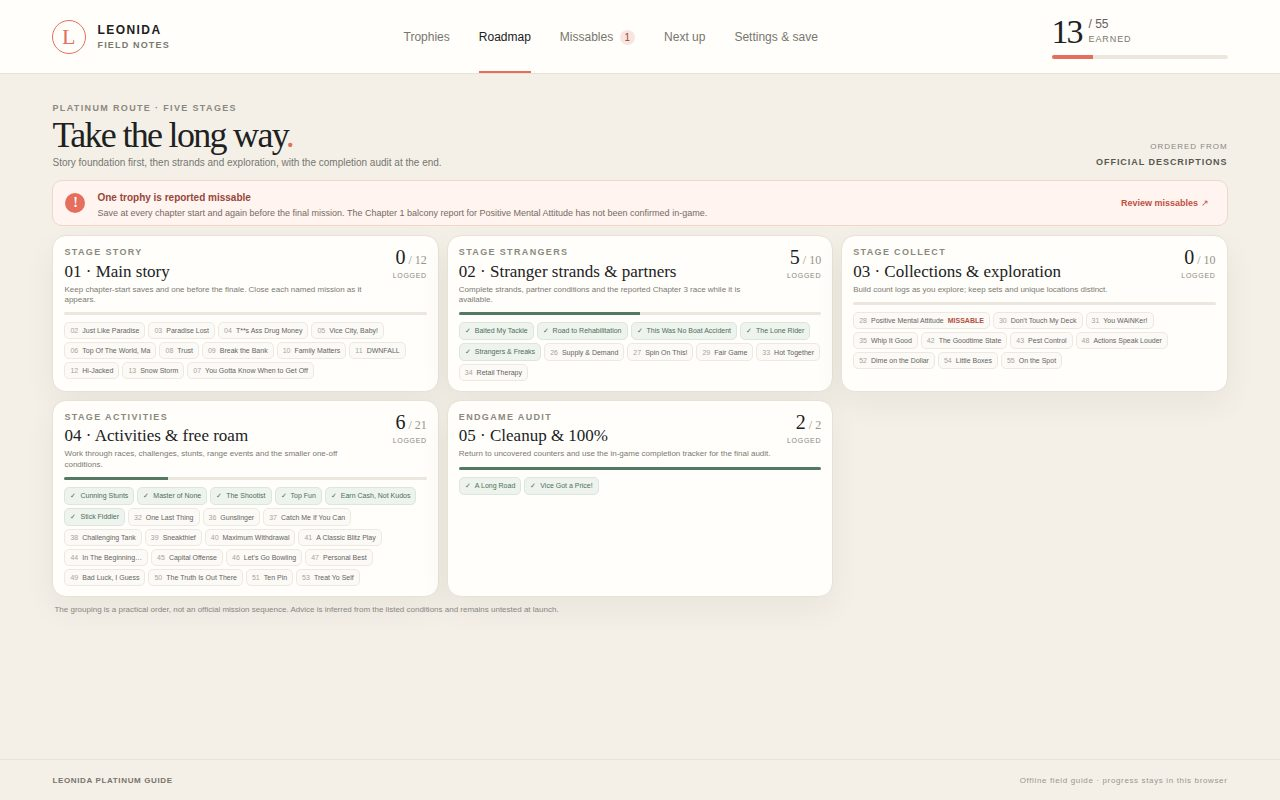
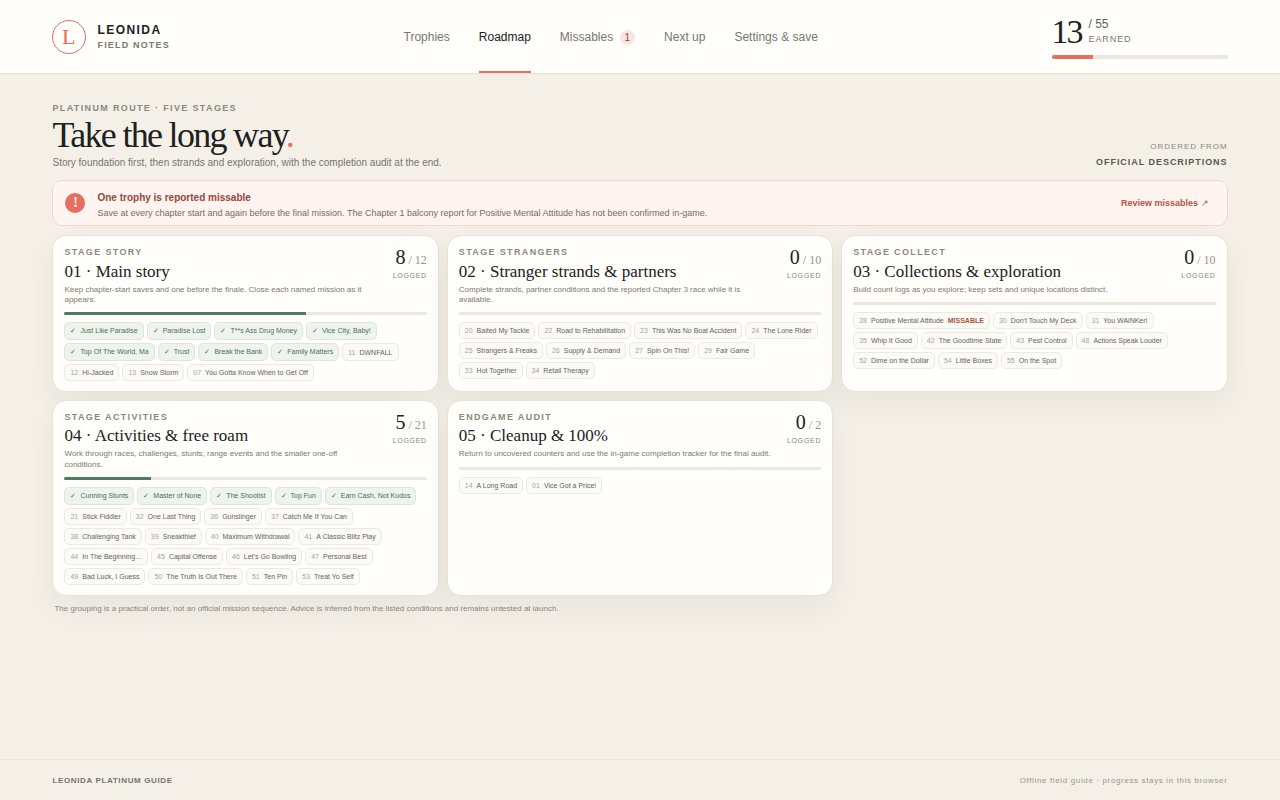
Revise Leonida Platinum Guide: fix spoiler search leak and polish

diff --git a/main.ts b/main.ts
@@ -6,16 +6,16 @@
 // screenshots, the first load's files and bytes, and your source), with the vendored make.fun library. Leave
 // vendor/makefun-frontend.ts as it is: the scorer requires dossier.json to be byte for byte what its own copy writes.
 //
-// Only the plumbing, not a winner: a plain checklist of the 55 trophies with a one-line hint each. Write a real guide
-// for every trophy in your own words, a roadmap to the platinum, filters and a spoiler setting in app/, put 3 or 4 PNG
-// or JPEG screenshots of it in screenshots/ (the first by name is the cover; shots.json says which views this
-// starter's were taken of), and run it.
+// The app includes 55 individually written guides, a five-stage roadmap, a missables report and a next-up planner.
+// Earned marks, notes and counters are stored locally and can be exported or imported. Spoiler cover masks unearned
+// story entries in the ledger, including search. Validate guide coverage before copying the entry. The first
+// screenshot by name is the cover; shots.json records the four reproducible preview scenes.
 //
 // Serve it locally with `node serve.ts`, then open http://localhost:8080.
 // Outside the grader's container, MAKEFUN_OUTPUT_DIR stands in for /output:
 //   mkdir -p out && MAKEFUN_OUTPUT_DIR=out node main.ts
 
-import { cpSync, existsSync, mkdirSync, readdirSync, writeFileSync } from 'node:fs';
+import { cpSync, existsSync, mkdirSync, readdirSync, readFileSync, writeFileSync } from 'node:fs';
 import { join } from 'node:path';
 import { fileURLToPath } from 'node:url';
 import { buildDossier } from './vendor/makefun-frontend.ts';
@@ -23,8 +23,14 @@ import { buildDossier } from './vendor/makefun-frontend.ts';
 const here = fileURLToPath(new URL('.', import.meta.url));
 const out = process.env.MAKEFUN_OUTPUT_DIR ?? '/output';
 if (!existsSync(join(here, 'app/index.html'))) throw new Error('Missing guide: app/index.html');
-const images = readdirSync(join(here, 'screenshots'), { withFileTypes: true }).filter(entry => entry.isFile() && /\.(png|jpe?g)$/i.test(entry.name));
+const { trophies } = JSON.parse(readFileSync(join(here, 'app/data/trophies.json'), 'utf8'));
+if (!Array.isArray(trophies) || trophies.length !== 55 || trophies.some(trophy => typeof trophy.guide !== 'string' || !trophy.guide.trim())) {
+  throw new Error('All 55 trophies must have a non-blank guide.');
+}
+const screenshotFiles = readdirSync(join(here, 'screenshots'), { withFileTypes: true }).filter(entry => entry.isFile());
+const images = screenshotFiles.filter(entry => /\.(png|jpe?g)$/i.test(entry.name));
 if (images.length < 3 || images.length > 4) throw new Error('The guide needs three or four screenshots.');
+if (images.length !== screenshotFiles.length) throw new Error('Screenshots must be PNG or JPEG images.');
 
 mkdirSync(out, { recursive: true });
 cpSync(join(here, 'app'), join(out, 'app'), { recursive: true });

diff --git a/app/main.js b/app/main.js
@@ -13,22 +13,23 @@ const filters={search:'',grade:'',kind:'',status:''};
 let trophies=[];
 let selectedId=1;
 let activePage='checklist';
+let showShotDrawer=true;
 const queryShot=new URLSearchParams(location.search).get('shot');
-const shotEarned=[1,14,15,16,17,18,19,20,21,22,23,24,25];
+const shotEarned=[2,3,4,5,6,8,9,10,15,16,17,18,19];
 
 function syncHeader(){
  const count=store.get().earned.length;
  root.querySelector('#earned-count').textContent=count;
  root.querySelector('#progress-fill').style.width=`${count/55*100}%`;
 }
-function choose(id){selectedId=id;paint();}
+function choose(id){if(activePage!=='checklist')Object.assign(filters,{search:'',grade:'',kind:'',status:''});selectedId=id;activePage='checklist';paint();}
 function render(){
  syncHeader();
  page.classList.toggle('roadmap-shot',queryShot==='2'&&activePage==='roadmap');
  root.querySelectorAll('[data-page]').forEach(button=>button.classList.toggle('active',button.dataset.page===activePage));
  if(activePage==='checklist'){
   renderChecklist(page,trophies,store.get(),selectedId,filters,choose,(id,value)=>store.earned(id,value),(next)=>{Object.assign(filters,next);render();},(key,value)=>store.setting(key,value));
-  if(queryShot==='4')renderShotDrawer();
+  if(queryShot==='4'&&showShotDrawer)renderShotDrawer();
  }
  else if(activePage==='roadmap')renderRoadmap(page,trophies,store.get(),choose);
  else if(activePage==='missables')renderMissables(page,trophies,store.get(),choose);
@@ -42,7 +43,7 @@ function renderShotDrawer(){
  page.append(drawer);
  drawer.querySelector('#shot-spoiler').addEventListener('change',event=>store.setting('spoiler',event.target.checked));
  drawer.querySelector('#shot-hidden').addEventListener('change',event=>store.setting('hideHidden',event.target.checked));
- drawer.querySelector('#drawer-done').addEventListener('click',()=>navigate('checklist'));
+ drawer.querySelector('#drawer-done').addEventListener('click',()=>{showShotDrawer=false;navigate('checklist');});
 }
 root.addEventListener('click',event=>{const button=event.target.closest('[data-page]');if(button)navigate(button.dataset.page);});
 window.addEventListener('guide-page',event=>navigate(event.detail));
@@ -62,7 +63,7 @@ try{
  trophies=await loadTrophies();
  if(queryShot){
   store.stageShot(shotEarned,queryShot==='4'?{spoiler:true}:{});
-  selectedId=queryShot==='4'?2:28;
+  selectedId=queryShot==='4'?11:28;
   if(queryShot==='2')activePage='roadmap';
   if(queryShot==='3'){activePage='missables';filters.kind='missable';}
   if(queryShot==='4')activePage='checklist';

diff --git a/app/views/checklist.js b/app/views/checklist.js
@@ -12,7 +12,7 @@ export function renderChecklist(page, trophies, state, selectedId, filters, onSe
   page.innerHTML = `<div class="page-heading"><div><span class="eyebrow">YOUR COLLECTION · PS5</span><h1>Trophy ledger<span class="period">.</span></h1><p>55 marks on the road to a Leonida platinum.</p></div><div class="heading-side"><span class="launch-tag">GUIDE STATUS <b>LAUNCH DAY · 19 NOV 2026</b></span><button class="text-button" data-goto="planner">Plan next →</button></div></div>
     <section class="tracker-grid">
       <div class="list-pane">
-        <div class="list-title"><div><b>THE TROPHY LIST</b><span>${visible.length} shown · ${state.earned.length} earned</span></div><label class="switch-label"><input id="spoiler-toggle" type="checkbox" ${state.spoiler?'checked':''}><span class="switch"></span>Spoilers</label></div>
+        <div class="list-title"><div><b>THE TROPHY LIST</b><span>${visible.length} shown · ${state.earned.length} earned</span></div><label class="switch-label"><input id="spoiler-toggle" type="checkbox" ${state.spoiler?'checked':''}><span class="switch"></span>Spoiler cover</label></div>
         <div class="filters">
           <label class="search-box"><span>⌕</span><input id="search" type="search" placeholder="Search the guide…" value="${escapeAttr(filters.search)}"><kbd>/</kbd></label>
           <select aria-label="Grade filter" id="grade-filter">${options(grades,filters.grade)}</select><select aria-label="Kind filter" id="kind-filter">${options(kinds,filters.kind)}</select><select aria-label="Earned filter" id="status-filter">${options([['','All status'],['open','Unearned'],['earned','Earned']],filters.status)}</select>

diff --git a/app/filters.js b/app/filters.js
@@ -10,7 +10,12 @@ export function filterTrophies(trophies, state, options) {
     if (options.grade && trophy.grade !== options.grade) return false;
     if (options.kind && trophy.kind !== options.kind) return false;
     if (options.status === 'earned' && !earned || options.status === 'open' && earned) return false;
-    if (query && !isMasked(trophy, state) && !`${trophy.name} ${trophy.description} ${trophy.guide}`.toLowerCase().includes(query)) return false;
+    if (query) {
+      const searchable = isMasked(trophy, state)
+        ? 'Hidden trophy — earn it to reveal Story spoiler · toggle spoilers to preview'
+        : `${trophy.name} ${trophy.description} ${trophy.guide}`;
+      if (!searchable.toLowerCase().includes(query)) return false;
+    }
     return true;
   });
 }

diff --git a/README.md b/README.md
@@ -26,3 +26,10 @@ Then open http://localhost:8080.
 - `screenshots/4-spoiler.jpg` — spoiler cover enabled with quick settings open.
 
 Each scene is available at its matching `?shot=` URL. An ordinary load begins with an empty checklist.
+
+## Verify
+
+With the server running on port 8080 and Playwright installed, run `node verify.cjs`.
+If Playwright is installed elsewhere, set `PLAYWRIGHT_MODULE` to that module's path.
+The check covers all four scenes, filters, local saves, notes, counters, export/import/reset,
+guide navigation, masked search, console errors and requests leaving the app.
